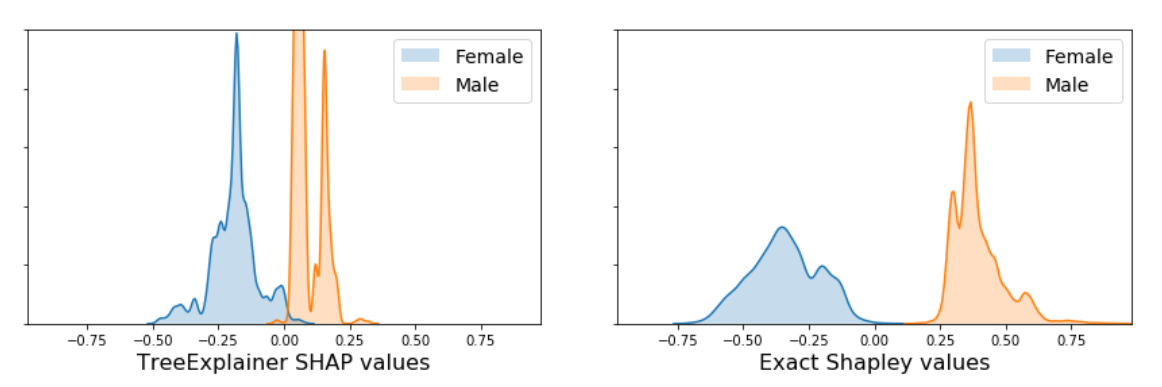
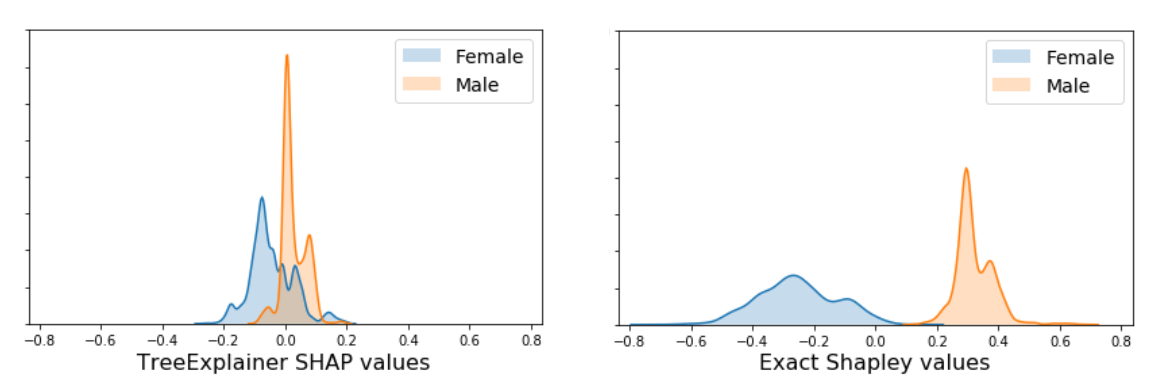
shapley post update

diff --git a/_drafts/2019-10-30-shapley-values.md b/_drafts/2019-10-30-shapley-values.md
@@ -1,5 +1,5 @@
 ---
-title: "Diving Into Shapley Values and the SHAP library"
+title: "An in-depth empirical study of Shapley Values and the SHAP library"
 canonical_url: "https://edden-gerber.github.io/shapley-values/"
 date: 2019-10-30
 share: true
@@ -10,22 +10,34 @@ header:
 toc: true
 toc_sticky: true
 ---
-*[WHY YOU WOULD WANT TO READ THIS POST]*
+## Why should you read this post?
+* **If you want to better understand the SHAP python library and what it does**. There are numerous sources online that discuss Shapley values and the SHAP tool, but very few primary sources (like the SHAP documentation, as opposed to secondary explanations based on it). This post is an attempt to contribute a fresh empirical perspective on this topic.
+* **If you ever waited too long for the SHAP kernel explainer to compute SHAP values for your entire dataset, and wonder if there might be a faster approach** (spoiler: _maybe_, if you have less than 15-20 features in your model).
+* **If you want to learn about the concept of Shapley values** (there are plenty of other sources for that, but I include a brief explanation here too).
 
+## A more wordy introduction
 If you ever looked for a way to make your complex model's results more explainable, you probably encountered the notion of Shapley values and the SHAP python library. It is an increasingly popular and theoretically robust approach method of quantifying how each feature contributes to a model's prediction for a particular sample. While Shapley values can be highly expensive to compute, the SHAP library provides ways to sidestep this complexity and compute Shapley values efficiently. **But is this a free lunch? And if not, how are we paying for it?**
 
-My interest in this topic was sparked when I was using the SHAP library during a [recent hackathon](https://edden-gerber.github.io/datahack-2019/). I noticed that in the specific case we were working on, the SHAP code seemed to be quite inefficient - taking so long to run for the entire dataset, that I wondered whether in this case it would actually be faster to compute Shapley values using a direct, "brute force" approach. This led me to write a function that does exactly that, based on the direct, inefficient formulation of Shapley values (which I will call "exact Shapley values" here) - and test how it behaves compared to the SHAP library and under which circumstances it might outperform it. This in turn led to a fascinating examination of Shapley values, the SHAP library, and what we are actually asking for when we use them.
+My interest in this topic was sparked when I was using the SHAP library during a [recent hackathon](https://edden-gerber.github.io/datahack-2019/). I noticed that in the specific case we were working on, the SHAP code seemed to be quite inefficient - taking so long to run for the entire dataset, that I wondered whether in this case it would actually be faster to compute Shapley values using a direct, "brute force" approach. This led me to write a function that does exactly that, based on the direct, inefficient formulation of Shapley values (which I will call "exact Shapley values" here) - and test how it behaves compared to the SHAP library (and under which circumstances it might outperform it).
+
+**So the general idea of this post is to compare the SHAP methods to what in my opinion is a more intuitive notion of Shapley value computation**, through an empirical approach of using them in different scenarios (one thing I learned as a scientist: if you want to really trust your analysis tools, you need to subject them to the same type of rigorous empirical study as your actual object of research). My main motivation is not to suggest a better alternative to the SHAP library (as I explain below, it is only "better" in some infrequent cases), but mostly to use this comparison to get a more nuanced understanding of this widely used method.
+
+Code for the exact Shapley function and the examples used in this post is available [here](XXX).
 
 ## Outline (not quite a tl;dr)
-If you need an introduction to Shapley values, I've added one at the end of this post so as not to encumber the reading of those already familiar with the topic. A detailed description of my code is likewise included at the end. The rationale of this post is to start from the intuitive idea of "exact" Shapley values, explain how the SHAP explainers differ from this idea, and discuss the implications of these differences. I will try to show the following:
+If you need an introduction to Shapley values, I've added one at the end of this post so as not to encumber the reading of those already familiar with the topic. A detailed description of my code is likewise included at the end. In this post I will try to show the following:
 
 * **"Exact" Shapley values can be computed for a low number of features** by retraining the model for each of 2<sup>M</sup> feature subsets.
 * **The SHAP library explainers and the exact Shapley computation provide two different interpretations to Shapley values**, the former best suited for explaining individual predictions for a given (trained) model, and the latter better suited for explaining global feature importance for a given dataset and model class.
 * **Comparing the output of the (efficient but complex) SHAP library functions to the (computationally expensive but conceptually intuitive) exact Shapley approach gives us insight into what we get when we use these methods.**
 * **Under some (limited) circumstances, the direct Shapley computation can be faster than the SHAP library explainers.** These circumstances are broadly when you **a.** have a low number of features (<~15), **b.** are using a model that is not supported by the efficient SHAP explainers and which has a relatively low training/prediction run time ratio (such as Isolation Forest), and **c.** need to compute Shapley values for a large number of samples (e.g., the entire dataset).
 
-## Defining "exact" Shapley values
-A Shapley value reflects the expected value of the surplus payoff generated by adding a player to a coalition, across all possible coalitions that don't include the player (or, in the machine learning realm, the expected value of the difference in model output generated by adding a feature to the model). However, implementing the concept of Shapley values for explaining predictive models is matter of some interpretation. Specifically, **the SHAP library interprets "adding a feature" in relation to its being unknown for a given sample during the prediction phase** - while this analysis is based on the alternative intuition of measuring feature impact **in relation to the feature being absent from the model altogether**. Both interpretations are consistent with the mathematical notion of Shapley values, but they measure slightly different things (the "exact" Shapley method is not novel, of course, nor are these the only two existing interpretations of Shapley values for machine learning; note that SHAP≠Shapley, it is rather an acronym of SHapley Additive exPlanations, e.g., an method based on Shapley values). I refer to the method explained here as "exact" Shapley computation because it is deterministic and does not rely on stochastic estimation - and *not* because it is necessarily more "true" than another method (with this point made, I will drop the quotation marks from now).
+## So what are "exact" Shapley values
+A Shapley value reflects the expected value of the surplus payoff generated by adding a player to a coalition, across all possible coalitions that don't include the player (or, in the machine learning realm, the expected value of the difference in model output generated by adding a feature to the model). However, implementing the concept of Shapley values for explaining predictive models is matter of some interpretation. Specifically:
+* **the SHAP library interprets "adding a feature" in relation to its value being unknown, for a given sample, during the prediction phase**, while
+* **the exact Shapley method is based on the alternative intuition of measuring a feature's impact in relation to it being absent from the model altogether during training**.
+
+Both interpretations are consistent with the mathematical notion of Shapley values, but they measure slightly different things (the "exact" Shapley method is not novel, of course, nor are these the only two existing interpretations of Shapley values for machine learning; note that SHAP≠Shapley, it is rather an acronym of SHapley Additive exPlanations, e.g., an method based on Shapley values). I refer to the method explained here as "exact" Shapley computation because it is deterministic and does not rely on stochastic estimation - and *not* because it is necessarily more "true" than another method (with this point made, I will drop the quotation marks from now).
 
 **The Exact Shapley values function (code [here](XXX)) takes a dataset and a payoff function, computes the payoff for each possible feature combination (or, "player coalition") and derives Shapley values** according to the formula:
 {% include figure image_path="../assets/images/shapley/shapley-formula.png" alt="Shapley value formula" caption="_&phi;<sub>i</sub>_ is the Shapley value for feature _i_, _S_ is a coalition of features, _v(S)_ is the payoff for this coalition, and N is the total number of features. _N\\{i}_ is all the possible feature coalitions not containing _i_. The first term within the sum corresponds to the fraction of times _S_ appears within the possible feature permutations; intuitively, this gives the highest weight to the most informative contributions of a feature, i.e. when it is isolated or when it is added to a full set of features. " %}
@@ -34,21 +46,21 @@ A Shapley value reflects the expected value of the surplus payoff generated by a
 
 **Example**: let's say we want to compute Shapley values for a model that predicts _y_ using _x<sub>1</sub>_, _x<sub>2</sub>_, and _x<sub>3</sub>_ with XGBoost. We will write a custom payoff function that initializes an XGB model, trains it on input arguments _X_ and _y_ and returns a prediction for each sample (perhaps splitting them non-randomly into training/validation and returning predictions for the validation only). The exact Shapley values function will feed the payoff function each possible feature combination in _X_ - {_x<sub>1</sub>_}, {_x<sub>1</sub>_,_x<sub>2</sub>_}, etc. - and use the scores to compute a Shapley value for each feature and each sample. The output is then the same as that of the SHAP library explainers, and so all the SHAP plotting tools can be used to visualize it.
 
-**The main disadvantage of this algorithm is its computational complexity** - it needs to run 2<sup>M</sup> times (where _M_ is the number of features), re-training the model each time. As a rule of thumb, if model training takes 1 second and you don't want more than about an hour of run time, you shouldn't use this method when you have more than 12 features. This complexity is of course the main reason the SHAP library was needed; on the other hand, under some limited circumstances this may be a faster option than using the SHAP Kernel explainer The issue of comparative run time is covered later in this post.
+**The main disadvantage of this algorithm is its computational complexity** - it needs to run 2<sup>M</sup> times (where _M_ is the number of features), re-training the model each time. As a rule of thumb, if model training takes 1 second and you don't want more than about an hour of run time, you shouldn't use this method when you have more than 12 features. This complexity is of course the main reason the SHAP library was needed; on the other hand, under some limited circumstances this may be a faster option than using the SHAP Kernel explainer. The issue of comparative run time is covered later in this post.
 
 
 ## What do the SHAP explainers do differently, and why should we care?
-The SHAP library provides three "explainer" classes - TreeExplainer, DeepExplainer and KernelExplainer. The first two are specialized for computing Shapley values for tree-based models and neural networks, respectively, and implement optimizations that are based on the architecture of those models, while the kernel explainer is a "blind" method that works with any model. I explain these classes below, but for the most in-depth explanation of how the SHAP classes work I recommend reading [this chapter](https://christophm.github.io/interpretable-ml-book/shap.html) of [Interpretable Machine Learning](https://christophm.github.io/interpretable-ml-book/) by Christoph Molnar.
+The SHAP library provides three main "explainer" classes - TreeExplainer, DeepExplainer and KernelExplainer. The first two are specialized for computing Shapley values for tree-based models and neural networks, respectively, and implement optimizations that are based on the architecture of those models. The kernel explainer is a "blind" method that works with any model. I explain these classes below, but for the most in-depth explanation of how the SHAP classes work I recommend reading [this chapter](https://christophm.github.io/interpretable-ml-book/shap.html) of [Interpretable Machine Learning](https://christophm.github.io/interpretable-ml-book/) by Christoph Molnar.
 
 
 ### KernelExplainer
-The kernel explainer differs from the exact Shapley computation in two main ways:
-1. Instead of iterating over all 2<sup>M</sup> possible feature coalitions, it samples a small subset of them (the default value is _nsamples=2*M+2048_. So if we have for example 20 features, then this will sample 2088/2<sup>20</sup> or about 0.2% of the possible coalitions). Coalitions are not selected completely randomly; rather, those with higher weight in the Shapley formula will be selected first (so, coalitions of 0 or M-1 features, which are most informative about the effect of adding  another feature, are more likely to be included).
-2. Instead of re-training the model at each iteration, it runs the already-trained input model but replaces the values of "missing" features with randomly selected values from other samples (a small "background" dataset). This additionally decreases total runtime because most models require significantly less time for prediction than for training.
+The kernel explainer differs from the exact Shapley method in two main ways:
+1. **Instead of iterating over all 2<sup>M</sup> possible feature coalitions, it samples a small subset of them** (the default value is _nsamples=2*M+2048_. So if we have for example 20 features, then this will sample 2088/2<sup>20</sup> or about 0.2% of the possible coalitions). Coalitions are not selected completely randomly; rather, those with higher weight in the Shapley formula will be selected first (so, coalitions of 0 or M-1 features, which are most informative about the effect of adding  another feature, will be included first).
+2. **Instead of re-training the model at each iteration, it runs the already-trained input model but replaces the values of "missing" features with randomly selected values** from other samples (a small "background" dataset). This additionally decreases total runtime because most models require significantly less time for prediction than for training.
 
-The significance of (1) is that Shapley values are basically estimated using random sampling. Appropriately, increasing _nsamples_ leads to increased runtime (more or less linearly) and decreased variance in the estimation (meaning that when you run the explainer multiple times, the Shapley values will be more similar to each other and to the expected value). This is easily demonstrated by running the Kernel Explainer with different _nsamples_ values:
+The significance of (1) is that Shapley values are basically estimated using random sampling. Appropriately, increasing _nsamples_ (or the size of the background dataset) leads to increased runtime (more or less linearly) and decreased variance in the estimation (meaning that when you run the explainer multiple times, the Shapley values will be more similar to each other and to the expected value). This is easily demonstrated by running the Kernel Explainer with different _nsamples_ values:
 
-{% include figure image_path="../assets/images/shapley/kernel_exp_nsamples.png" alt="SHAP kernel explainer runtime and estimation variance as a function of nsamples" caption="Based on the Census Income database included in the SHAP library. Estimation variance and mean run time are computed across 30 iterations of running the SHAP explainer on a K-Nearest-Neighbors classification model." %}
+{% include figure image_path="../assets/images/shapley/kernel_exp_nsamples.png" alt="SHAP kernel explainer runtime and estimation variance as a function of nsamples" caption="Based on the Census Income database included in the SHAP library. There are 12 features in the dataset and so _nsamples_ is effectively capped at 2<sup>12</sup>=4096. Estimation variance and mean run time are computed across 30 iterations of running the SHAP explainer on a K-Nearest-Neighbors classification model."  %}
 
 The significance of (2) - handling "missing" features by replacing their values with surrogate "background" data - is more complex:
 * First and most simply, it is an **additional source of variance** to the Shapley value estimation, as the results are to at least some extent dependent on the selection of the background dataset.
@@ -57,11 +69,11 @@ The significance of (2) - handling "missing" features by replacing their values 
 
 Let's see how these points add up with an example.
 
-We will look at Shapley values for one of the datasets included in the SHAP library - the [adult census database](https://archive.ics.uci.edu/ml/datasets/adult), with 12 demographic features that are used to predict whether an individual's income is >50K$. Following the [example of this SHAP library notebook](https://slundberg.github.io/shap/notebooks/Census%20income%20classification%20with%20scikit-learn.html), we will use a KNN model to make this prediction and the KernelExplainer to provide Shapley values - comparing them to those generated with the Exact Shapley values method. For clarity and reduced computation runtime, we'll include only 5 of the 12 features in our model (Age, Education-Num, Marital Status, Occupation, and Sex).
+We will look at Shapley values for one of the datasets included in the SHAP library - the [adult census database](https://archive.ics.uci.edu/ml/datasets/adult), with 12 demographic features that are used to predict whether an individual's income is >50K$. Following the [example of this SHAP library notebook](https://slundberg.github.io/shap/notebooks/Census%20income%20classification%20with%20scikit-learn.html), we will use a KNN model to make this prediction and the KernelExplainer to provide Shapley values - comparing them to those generated with the Exact Shapley values method. For clarity and reduced computation runtime, we'll include only 6 of the 12 features in our model (_Age_, _Hours per week_, _Education_, _Marital status_, _Capital gain_, and _Sex_).
 
 ```python
 X,y = shap.datasets.adult()
-X = X[['Age', 'Education-Num', 'Marital Status', 'Occupation', 'Sex']]
+X = X[['Age', 'Hours per week','Education-Num', 'Marital Status', 'Capital Gain', 'Sex']]
 ```
 
 Let's define a model and use the KernelExplainer to get SHAP values (we'll compute them only for the first 1000 samples because the KernelExplainer is quite slow...):
@@ -81,7 +93,7 @@ Now let's compute exact Shapley values. First we'll define our payoff function, 
 def shap_payoff_KNN(X, y):
     knn = KNeighborsClassifier()
     knn.fit(X, y)
-    return knn.predict_proba(X)[:,1]
+    return knn.predict_proba(X)[:,1] # this returns the output probability for y=True
 ```
 
 And now run the function itself (_reshape_shapley_output_ just re-arranges the original output, since _exact_shapley_values_ returns a dictionary that does not assume a particular payoff format. The _zero_payoff_ argument is explained in the last section of this post that describes the function code):
@@ -98,27 +110,25 @@ exact_shapley = exact_shapley[0:num_samples] # exact_shapley_values returns Shap
 Comparing exact and KernelExplainer Shapley values:
 {% include figure image_path="../assets/images/shapley/kernel_vs_exact_scatter.png" alt="scatter plot" caption="" %}
 
-The correlation between Shapley values produced by the two methods is apparent, as are the differences. Another way to summarize the differences is that if we sort and rank the Shapley values of each sample (from 1 to 5), the order would be different by about 0.5 ranks on average (e.g. in about half of the samples two adjacent features' order is switched). The discussion of the nature of these differences will wait until the next section, where they will be easier to understand. For now let's just remember that we are not looking at the relation between "true" values and their noisy estimation: instead, _exact Shapley values are a deterministic measure of one thing, and the kernel SHAP values are a noisy estimation of another (related) thing_.
+In this particular example, the two method produce highly correlated results. Another way to summarize the differences is that if we sort and rank the Shapley values of each sample (from 1 to 6), the order would be different by about 0.75 ranks on average (e.g. in about 3/4 of the samples two adjacent features' order is switched). The discussion of the nature of these differences will wait until the next section, where they will be easier to understand. For now let's just remember that we are not looking at the relation between "true" values and their noisy estimation: instead, _exact Shapley values are a deterministic measure of one thing, and the kernel SHAP values are a noisy estimation of another (related) thing_.
 
 
 ### TreeExplainer
-TreeExplainer is a class that computes SHAP values for tree-based models (Random Forest, XGBoost, LightGBM, etc.). It is  as the underlying tree structure of these models allow it to neatly ignore those parts of the model that correspond to missing features.
-
-Compared to KernelExplainer it is:
+TreeExplainer is a class that computes SHAP values for tree-based models (Random Forest, XGBoost, LightGBM, etc.). Compared to KernelExplainer it is:
 * **Exact**: Instead of simulating missing features by random sampling, it makes use of the tree structure by simply ignoring decision paths that rely on the missing features. The TreeExplainer output is therefore deterministic and does not vary based on a background dataset.
-* **(Much) faster**: Instead of iterating over each possible feature combination (or a subset thereof), all combinations are pushed through the tree simultaneously, reducing complexity from _O(TL2<sup>M</sup>)_ (that is, exponential with number of features) to _O(TLD<sup>2</sup>)_ (where _T_ is number of trees, _L_ is maximum number of leaves, _M_ is number of features and _D_ is maximum tree depth).
+* **(Much) faster**: Instead of iterating over each possible feature combination (or a subset thereof), all combinations are pushed through the tree simultaneously, using a more comlex algorithm to keep track of each combination's result - reducing complexity from _O(TL2<sup>M</sup>)_ (that is, exponential with number of features) to _O(TLD<sup>2</sup>)_ (where _T_ is number of trees, _L_ is maximum number of leaves, _M_ is number of features and _D_ is maximum tree depth).
 
-This means that comparing to the Exact Shapley method, the TreeExplainer is similarly deterministic but typically much faster. On the other hand, it still behaves in the same way as KernelExplainer in that it evaluates the contribution of features to the model prediction, rather than the model training - and is therefore **more suitable for explaining individual predictions given a trained model rather than explaining how different features contribute to the model**.
+This means that compared to the Exact Shapley method, the TreeExplainer is similarly deterministic but typically much faster. On the other hand, **it still behaves in the same way as KernelExplainer in that it evaluates the contribution of features at the prediction phase, rather than the effect of adding them to the model itself** - and is therefore more suitable for explaining individual predictions given a trained model, than explaining how different features interact in the dataset.
 
-**A simple artificial example can demonstrate this**. Let's generate a 3-feature regression model, with one feature _x<sub>1</sub>_ which is a strong predictor of _y_, a second feature _x<sub>2</sub>_ which is strongly correlated with it (and so slightly less predictive), and a third non-predictor feature _x<sub>3</sub>_:
+**A simple artificial example can demonstrate this**. Let's generate a 3-feature linear regression model, with one feature _x<sub>1</sub>_ which is a strong predictor of _y_, a second feature _x<sub>2</sub>_ which is strongly correlated with it (and so slightly less predictive), and a third non-predictor feature _x<sub>3</sub>_:
 
 ```python
 ns = 10000
 nf = 4
 
 X = pd.DataFrame(np.random.randn(ns, nf)) # 3 random features
-X[[1]] = X[[0]] + np.random.randn(ns,1)*0.2 # x2 is correlated with x1
-y = X[X.columns[0]] + np.random.randn(ns) # y depends on x1 (and so on x2 as well) but not x3
+X[[1]] = X[[0]] + np.random.randn(ns,1)*0.2 # x2 is correlated with x1 but noisier
+y = X[[0]] + np.random.randn(ns,1) # y depends on x1 (and so on x2 as well) but not x3
 X.columns = ['Strong predictor of y', 'Correlated with strong predictor', 'Not a predictor of y']
 ```
 We'll define an XGB regressor model and compute TreeExplainer SHAP and Exact Shapley values. How do they compare with each other? Let's use the SHAP library's _summary_plot_ visualization tool:
@@ -127,42 +137,40 @@ We'll define an XGB regressor model and compute TreeExplainer SHAP and Exact Sha
 Let's break this down:
 * With the TreeExplainer, the model has already been trained with all 4 features, so **SHAP values reflect the fact that _x<sub>1</sub>_ has the highest impact within the trained model**, while  _x<sub>2</sub>_ has a much smaller role as it is mostly redundant.
 * With the Exact Shapley method on the other hand, _x<sub>2</sub>_'s impact on _y_ is almost as large as _x<sub>1</sub>_'s because **when the model is trained without _x<sub>1</sub>_, _x<sub>2</sub>_ is nearly just as informative**.
-* At the same time, the non-predictive  _x<sub>3</sub>_ is credited with a higher impact using the Exact Shapley method - simply because, **especially as we did not do a training/validation split, it can  over-fitted to the data in the absence of better predictors**.
+* At the same time, the non-predictive  _x<sub>3</sub>_ is credited with a higher impact using the Exact Shapley method - simply because, especially as we did not do a training/validation split, it can  over-fitted to the data in the absence of better predictors.
 
 
-**Let's try a real-world example**, using the previous case of the simple 5-feature census dataset predicting a >500K$ income. This time, we'll use an XGBoost classsifier as a model to allow the use of TreeExplainer. How do the TreeExplainer SHAP values and exact Shapley values compare with each other?
+**Now let's try a real-world example**, using the previous case of the simple 6-feature census dataset predicting a >500K$ income. This time, we'll use an XGBoost classsifier as a model to allow the use of TreeExplainer. How do the TreeExplainer SHAP values and exact Shapley values compare with each other?
 
 {% include figure image_path="../assets/images/shapley/treeexplainer_vs_exact_scatter.png" alt="scatter plot" caption="" %}
 
 The results seem to be highly correlated but still slightly different. Again but with _summary_plot_:
 {% include figure image_path="../assets/images/shapley/census_summary_plots.png" alt="summary plot" caption="" %}
 
-Here too the results seem similar enough (although different enough that the order of global feature importance is changed a bit). Let's zoom in on the differences in how Shapley values for the _Sex_ variable are distributed:
+Here too the results seem similar enough (although different enough that the order of global feature importance is changed a bit). But let's zoom in on the differences in how Shapley values for the _Sex_ variable are distributed:
 
 {% include figure image_path="../assets/images/shapley/census_sex_shapley_hist.png" alt="histogram of sex feature Shapley values" caption="" %}
 
-With the SHAP method, the feature's contributed is scaled somewhat smaller (probably because the impact is always divided between all features while in the exact Shapley approach smaller feature coalitions are considered). We also see that there are a minority cases where the value's sign is flipped (positive impact for Sex=female, etc.). 
+What's going on here?
+* The exact Shapley results show us that **averaged all possible feature combinations, adding this variable will have a consistent impact on prediction for this dataset** (at least until Patriarchy is toppled).
+* The TreeExplainer results show us that **in our trained model, this variable has a smaller and less consistent impact on prediction across our samples**, most likely because it is used to explain smaller residual variance after most of the information it conveys was provided by other, more predictive features.
 
+So which method should we use to explain the role of the _Sex_ variable in our data and model? I think the best way to put this is:
+* **Exact Shapley values better represent the global impact of the features in our dataset**, while
+* **SHAP values better explain specific predictions given our existing model**.  
 
-So this is an example of how exact Shapley and SHAP values can diverge in small but perhaps meaningful ways:
-* With the exact Shapley method, the feature's bi-modal impact is very defined, demonstrating that across the different feature combinations, adding the _Sex_ information influences the prediction very consistently.
-* With the SHAP method, the feature's contributed is scaled somewhat smaller (probably because the impact is always divided between all features while in the exact Shapley approach smaller feature coalitions are considered), and there are a minority cases where the value's sign is flipped
+Two additional notes on this:
+* **A practical note**: I am not suggesting that if you care about global feature impact in your dataset you should necessarily use the exact Shapley method - mainly because in most cases that would be computationally intractable (although see the next main section for when it might not be). It is also apparent from my examples that the SHAP explainers' results are typically not so different that they should not be used for this purpose. My main motivation here is to get a better understanding of SHAP results and their limitations.
 
+* **A technical note**: If you are familiar with TreeExplainer, you may know that since in the case of binary classification the weights of the tree nodes hold not probabilities but log-odd values (which are transformed into probabilities with the logistic function as a final step) - the default optimization approach utilized by TreeExplainer provides SHAP values that add up to these untransformed values (and not the final probabilities). Simply applying the logistic function to the SHAP values themselves wouldn't work, since the sum of the transformed values != the transformed value of the sum. To produce SHAP values that correspond directly to probability outputs, the TreeExplainer has to sacrifice some of its efficiency and use an approach similar to the KernelExplainer of simulating missing features by replacement with a background dataset - naturally a slower and less exact method. On the other hand, to directly explain probability outputs with the exact Shapley method all that we need to do is choose the output of the payoff function to be the probability (e.g., in the XGBClassifier case, use _out = xgb_model.predict_proba(X)[:,1]_ rather than _out = xgb_model.predict(X, output_margin=True)_). **In other words, with the exact Shapley method we always pay the maximum computation cost, and so can just as well use a payoff function that gives us exactly what we want our Shapley values to explain**.
 
-
-What is going on here? It seems that according to the exact Shapley method, an individual's sex has a more pronounced (and consistent) impact on the probability to be a >50K$ earner. My educated guess is that the _Sex_ feature is not entirely independent of the other, more informative features; when these features are omitted from training in the Exact Shapley method, the _Sex_ feature can better contribute to explain any remaining unexplained variance in the model. The TreeExplainer, on the other hand, can credit each feature only with the contribution it makes according to the given model which has already been trained with all features. Thus, to the extent that any feature's inclusion in the training phase can impact another feature's role, the SHAP library classes and the Exact Shapley method will offer more-or-less different result that reflect these different interpretations of feature impact.
-
-
-
-
-(dont forget to give plenty of links to the good posts on shapley and shap at https://christophm.github.io/interpretable-ml-book/shap.html)
 
 does TreeExplainer explore all possible 2^M coalitions? how, what about memory constraints? (https://github.com/slundberg/shap/blob/master/shap/explainers/tree.py)
 and - try doing the census data example with the model suggested here (https://github.com/slundberg/shap/blob/master/notebooks/tree_explainer/Census%20income%20classification%20with%20XGBoost.ipynb) - even with a train/validate split.
 
 
 
-### Wait, what about DeepExplainer?
+### What about DeepExplainer?
 
 bla bla bla
 
@@ -170,9 +178,12 @@ bla bla bla
 **When is the exact Shapley computation feasible? And when is it faster than the SHAP explainers?**
 bla bla bla
 
+## A hybrid solution? estimating "exact" Shapley values with random sampling
+This should be another post.
+
 
 ## What are Shapley Values
-If you are familiar with the concept of Shapley values, you can skip this section. A quick Google search will also reveal numerous other sources online that explain this topic very well (I found that staring at the mathematical formula on the Wikipedia page until I got it gave me the best intuition), so my explanation will be brief.
+If you are familiar with the concept of Shapley values, you can skip this section. A quick Google search will also provide numerous other sources online that explain this topic very well (I found that staring at the mathematical formula on the Wikipedia page until I got it gave me the best intuition), so my explanation will be brief.
 
 Shapley values are a concept from game theory, describing how the contribution to a total payoff generated by a coalition of players is divided across the players. The relevance of this concept to machine learning is apparent if you translate "payoff" to "prediction" and "players" to "features".
 The definition of the Shapley value (using ML terminology) is quite straightforward: the contribution of any feature is the expected value, across all possible permutations of feature combinations not containing this feature, of the prediction change caused by adding this feature. It looks like this:
@@ -200,26 +211,3 @@ An additional optional input argument to the function is the payoff for the empt
 
 
  <font size="-1"> <b>If you wish to comment on this post you may do so on <a href="https://medium.com/@edden.gerber...">Medium</a>.</b> <font size="+1">
-
-
-
-
-
-
- ```python
- xgb_model = xgb.XGBClassifier(random_state=1) # a specific random state is chosen to get identical results for the two methods
- xgb_model.fit(X, y)
- explainer = shap.TreeExplainer(xgb_model)
- tree_shap = explainer.shap_values(X)
- ```
-
- And the exact Shaply values:
- ```python
- def shap_payoff_XGBclas(X,y):
-     xgb_model = xgb.XGBClassifier(random_state=1)
-     xgb_model.fit(X, y)
-     return xgb_model.predict_proba(X)[:,1] # return probability of positive label
-
- mean_prediction = np.mean(shap_xgb_cls(X,y))
- exact_shapley = reshape_shapley_output(exact_shapley_values(shap_xgb_cls, X, y, zero_payoff = np.ones(X.shape[0])*mean_prediction))
- ```
